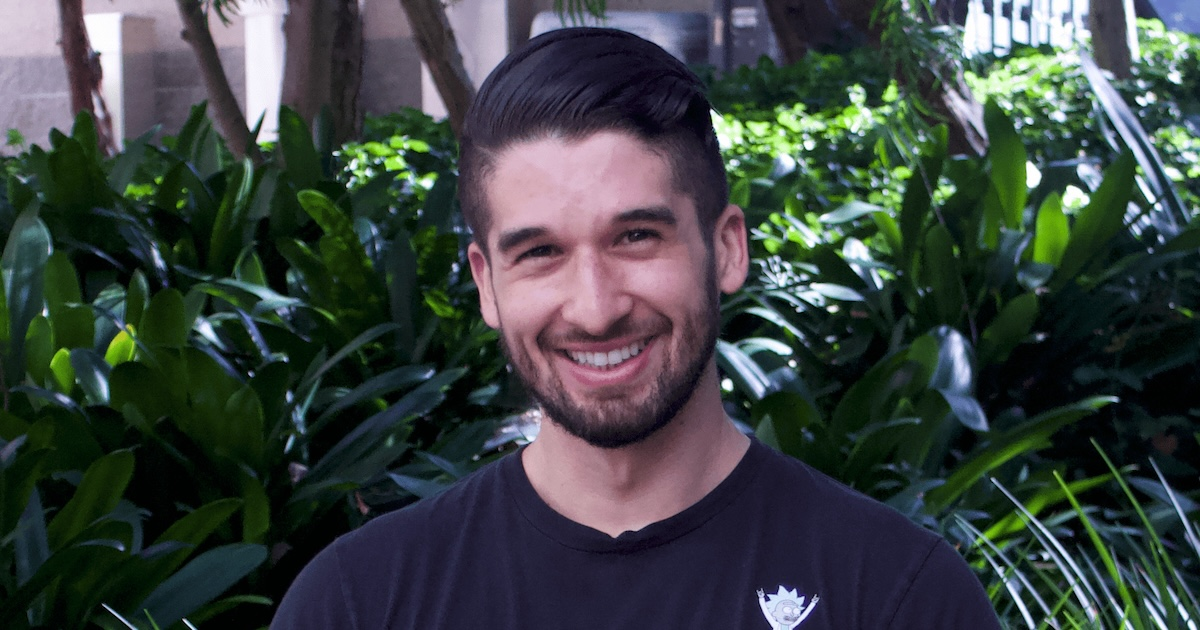
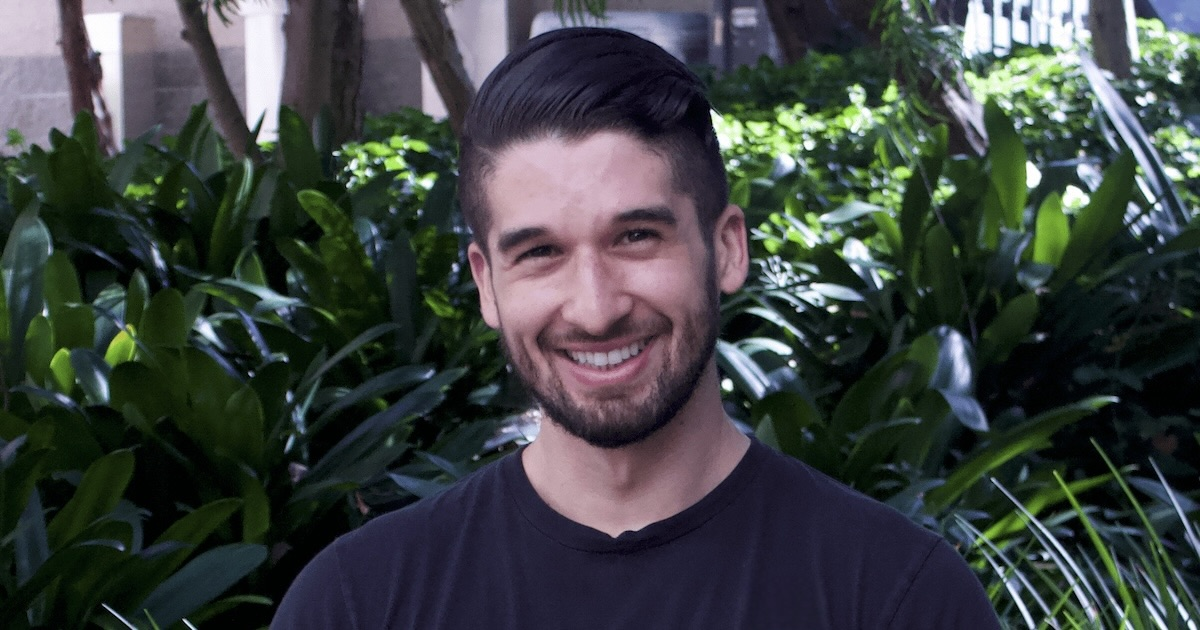
updated assets

diff --git a/cv.html b/cv.html
@@ -22,10 +22,10 @@
   <meta name="twitter:url" content="https://jdelgado.net/cv.html" />
   <meta property="og:url" content="https://jdelgado.net/cv.html" />
 
-  <meta property="og:image" content="https://jdelgado.net/assets/link_preview-CV.gif" />
+  <meta property="og:image" content="https://jdelgado.net/assets/link_preview-CV.jpg" />
   <meta property="og:image:width" content="1200" />
   <meta property="og:image:height" content="630" />
-  <meta name="twitter:image" content="https://jdelgado.net/assets/link_preview-CV.gif" />
+  <meta name="twitter:image" content="https://jdelgado.net/assets/link_preview-CV.jpg" />
 
   <meta name="twitter:card" content="summary_large_image" />
   <meta property="og:type" content="website" />
